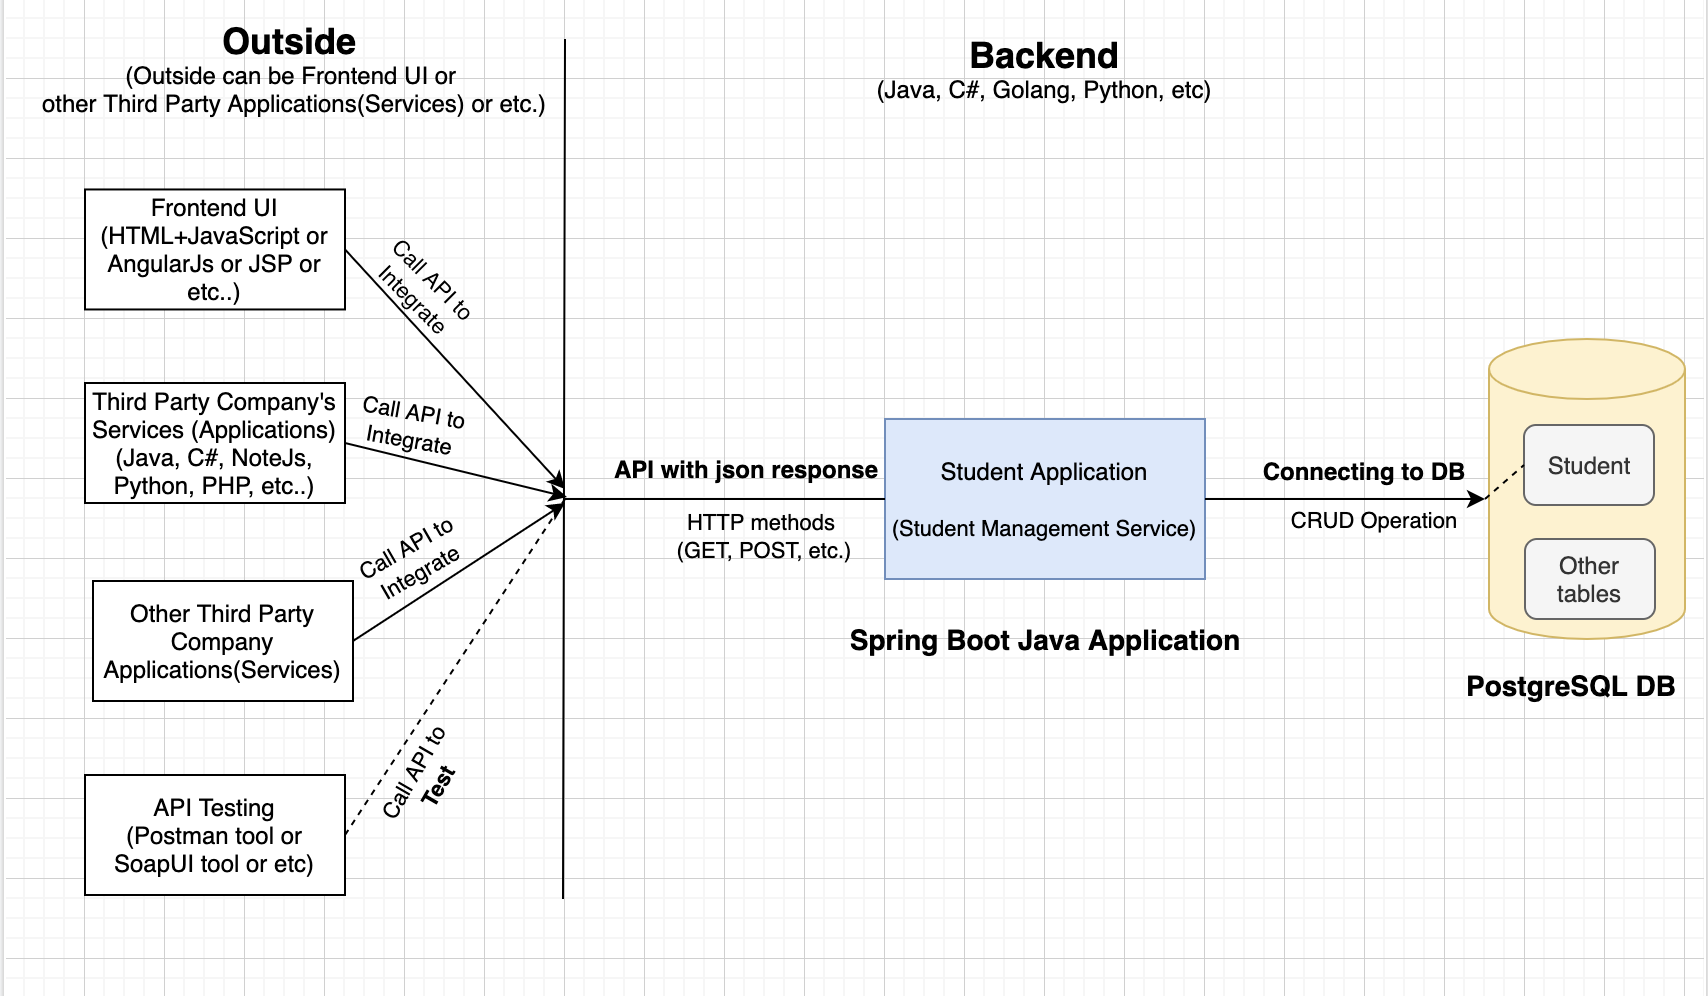
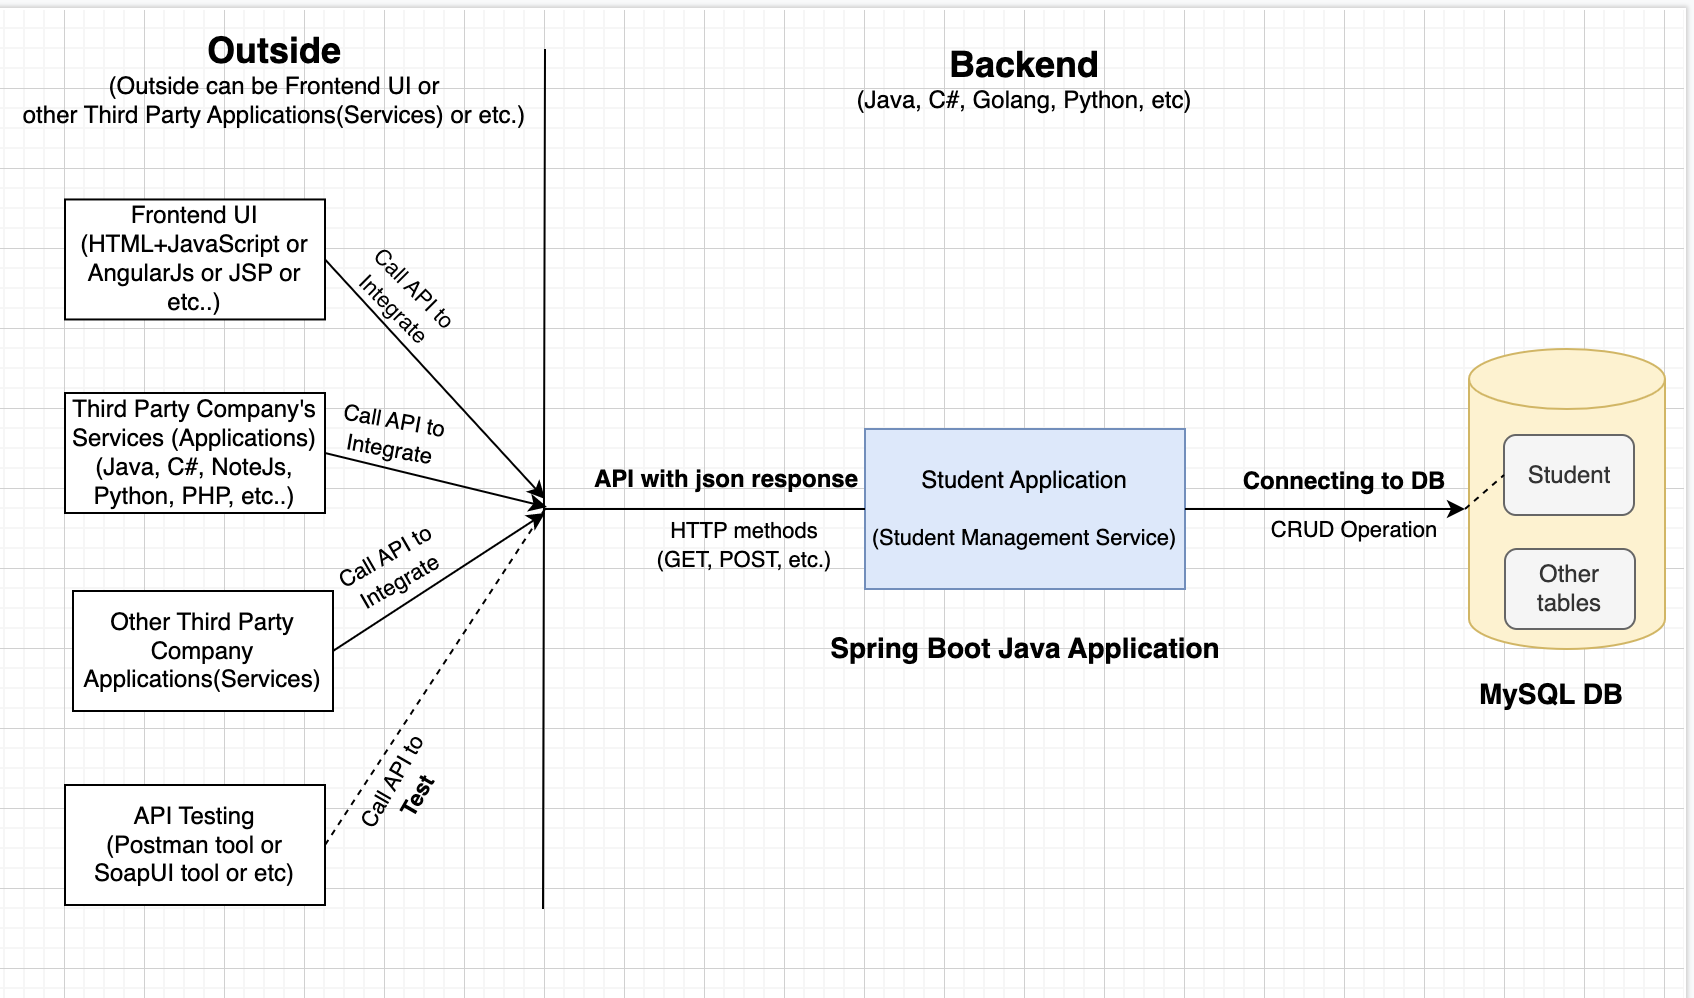
update readme

diff --git a/README.md b/README.md
@@ -34,7 +34,7 @@
 </h1>
 
 # spring-boot-sample-crud
-* This is the sample backend microservice project for Spring Boot + Spring Data JPA + PostgreSQL application.
+* This is the sample backend microservice project for Spring Boot + Spring Data JPA + MySQL application.
 
 <!-- TABLE OF CONTENTS -->
 ## Table of Contents
